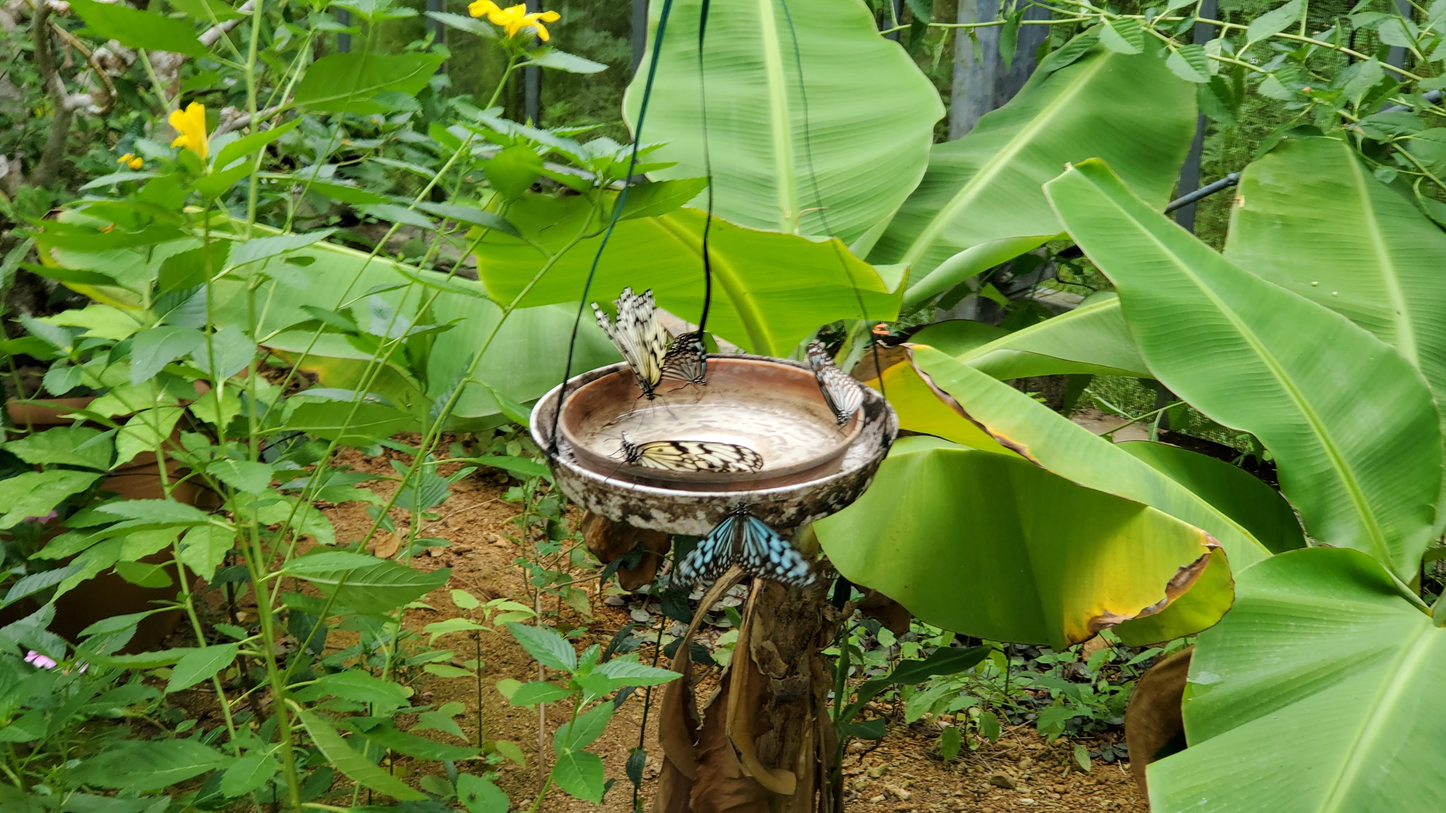
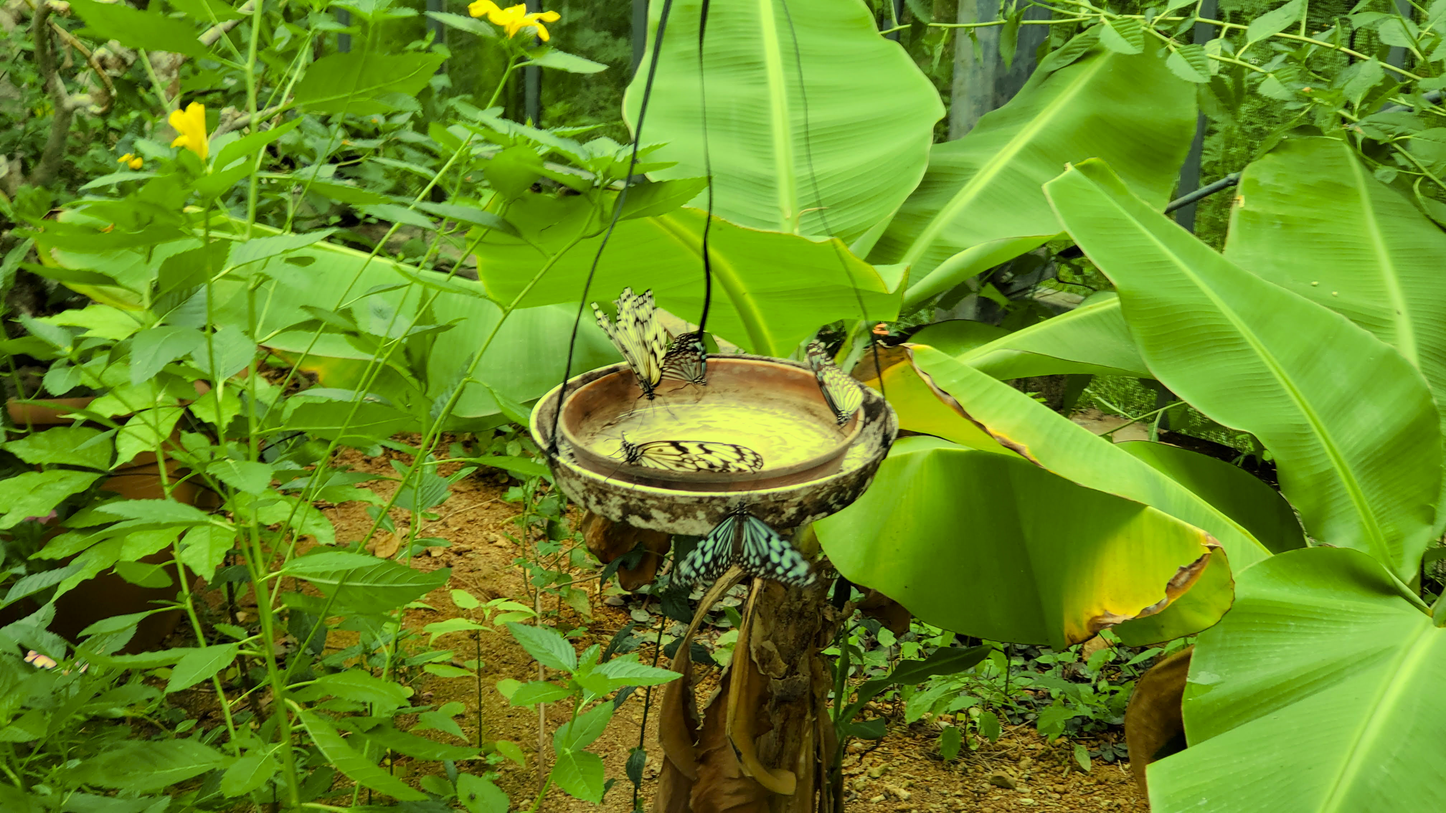
update

diff --git a/src/main.py b/src/main.py
@@ -13,18 +13,15 @@ def gray_world(nimg):
 
 
 def feature_matching(img1, img2):
-    akaze = cv2.AKAZE_create()
+    sift = cv2.SIFT_create()
+    kp1, des1 = sift.detectAndCompute(img1, None)
+    kp2, des2 = sift.detectAndCompute(img2, None)
 
-    kp1, des1 = akaze.detectAndCompute(img1, None)
-    kp2, des2 = akaze.detectAndCompute(img2, None)
-
-    bf = cv2.BFMatcher(cv2.NORM_HAMMING, crossCheck=True)
-
+    bf = cv2.BFMatcher(cv2.NORM_L2, crossCheck=True)
     matches = bf.match(des1, des2)
     matches = sorted(matches, key=lambda x: x.distance)
 
     num_matches = len(matches)
-
     result_img = cv2.drawMatches(
         img1,
         kp1,
@@ -46,8 +43,8 @@ def main():
     ]
 
     for i, img in enumerate(images):
-        img1 = cv2.resize(cv2.imread(img[0]), (1920, 1080))
-        img2 = cv2.resize(cv2.imread(img[1]), (1920, 1080))
+        img1 = cv2.resize(cv2.imread(img[0]), (1280, 720))
+        img2 = cv2.resize(cv2.imread(img[1]), (1280, 720))
 
         original_num_matches, original_result_img = feature_matching(img1, img2)
         gray_scale_num_matches, gray_scale_result_img = feature_matching(
